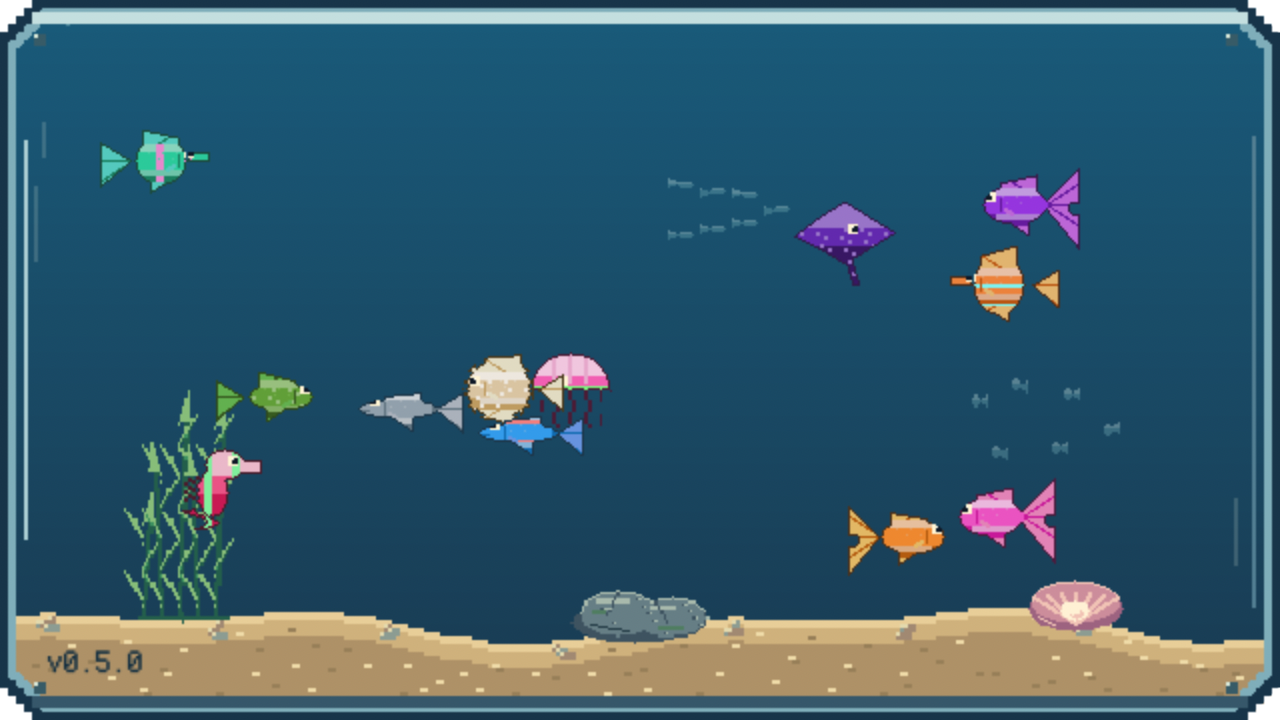
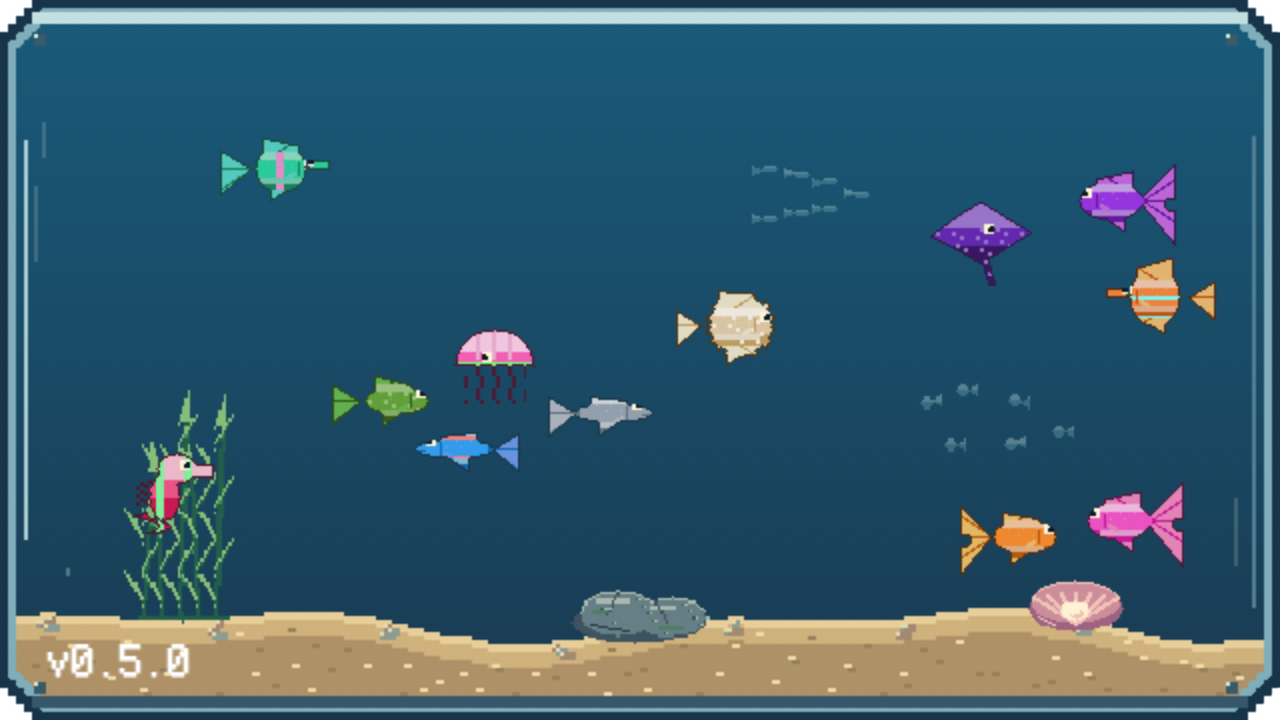
fix: enlarge white pixel version label

diff --git a/Sources/Rendering/AquariumScene.swift b/Sources/Rendering/AquariumScene.swift
@@ -116,7 +116,7 @@ final class AquariumScene: SKScene {
         if let version = Bundle.main.object(forInfoDictionaryKey: "CFBundleShortVersionString") as? String, !version.isEmpty {
             let label = SKLabelNode(fontNamed: PixelTheme.fontName)
             label.name = "appVersion"; label.text = "v" + version
-            label.fontSize = 8; label.fontColor = color(0x142F40)
+            label.fontSize = 12; label.fontColor = color(0xFFFFFF)
             label.horizontalAlignmentMode = .left; label.verticalAlignmentMode = .center
             label.position = CGPoint(x: 11, y: AquariumFloor.height(at: 24) / 2 + 2); label.zPosition = 81
             tankRoot.addChild(label)

diff --git a/CHANGELOG.md b/CHANGELOG.md
@@ -19,7 +19,7 @@
 - 精简菜单，统一像素按钮、输入框、筛选和弹出菜单样式。
 - 修复侧栏按钮空白区域无法点击、文字阴影过重等问题。
 - 设置窗口采用固定尺寸，避免缩小后内容挤压。
-- 鱼缸版本号使用深墨蓝像素字，随鱼缸尺寸缩放，直接显示在沙层中间。
+- 鱼缸版本号使用白色像素字，最小档 12 点，随鱼缸尺寸缩放，直接显示在沙层中间。
 - 增加睡眠、锁屏恢复后的渲染检测与恢复。
 - 迁移提醒设置时保留已有 hook、配置与信任记录。
 
